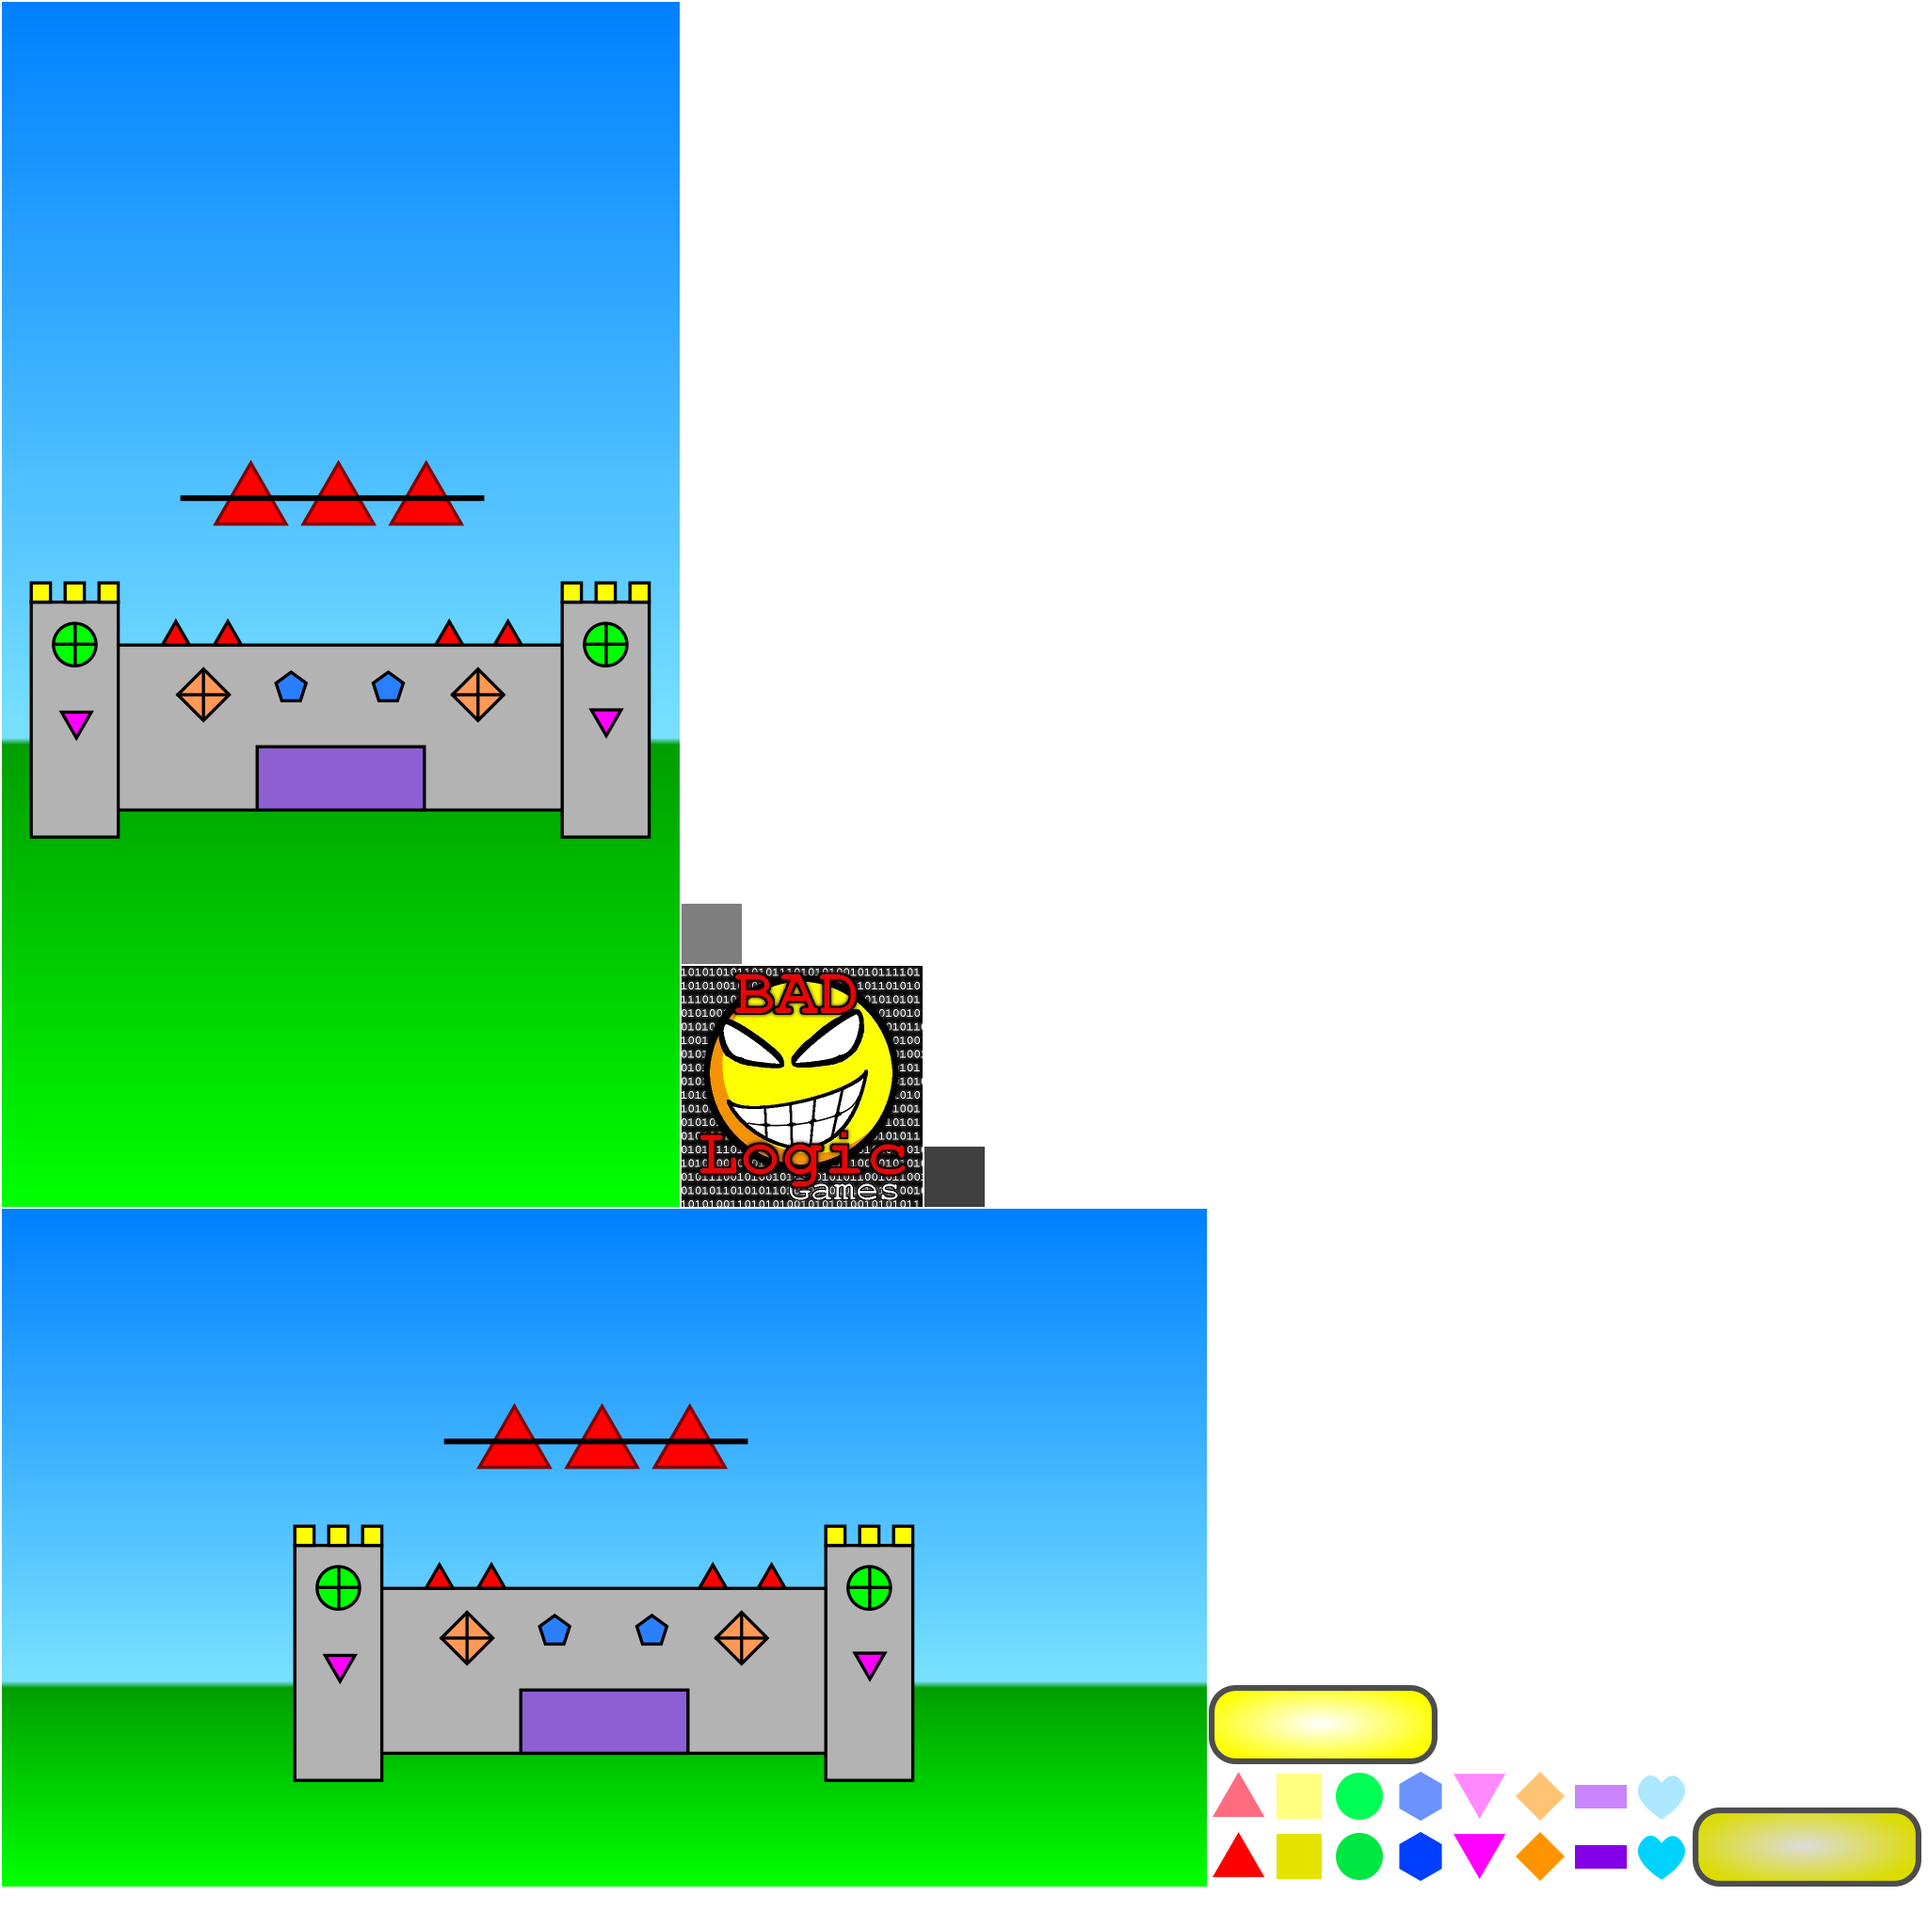
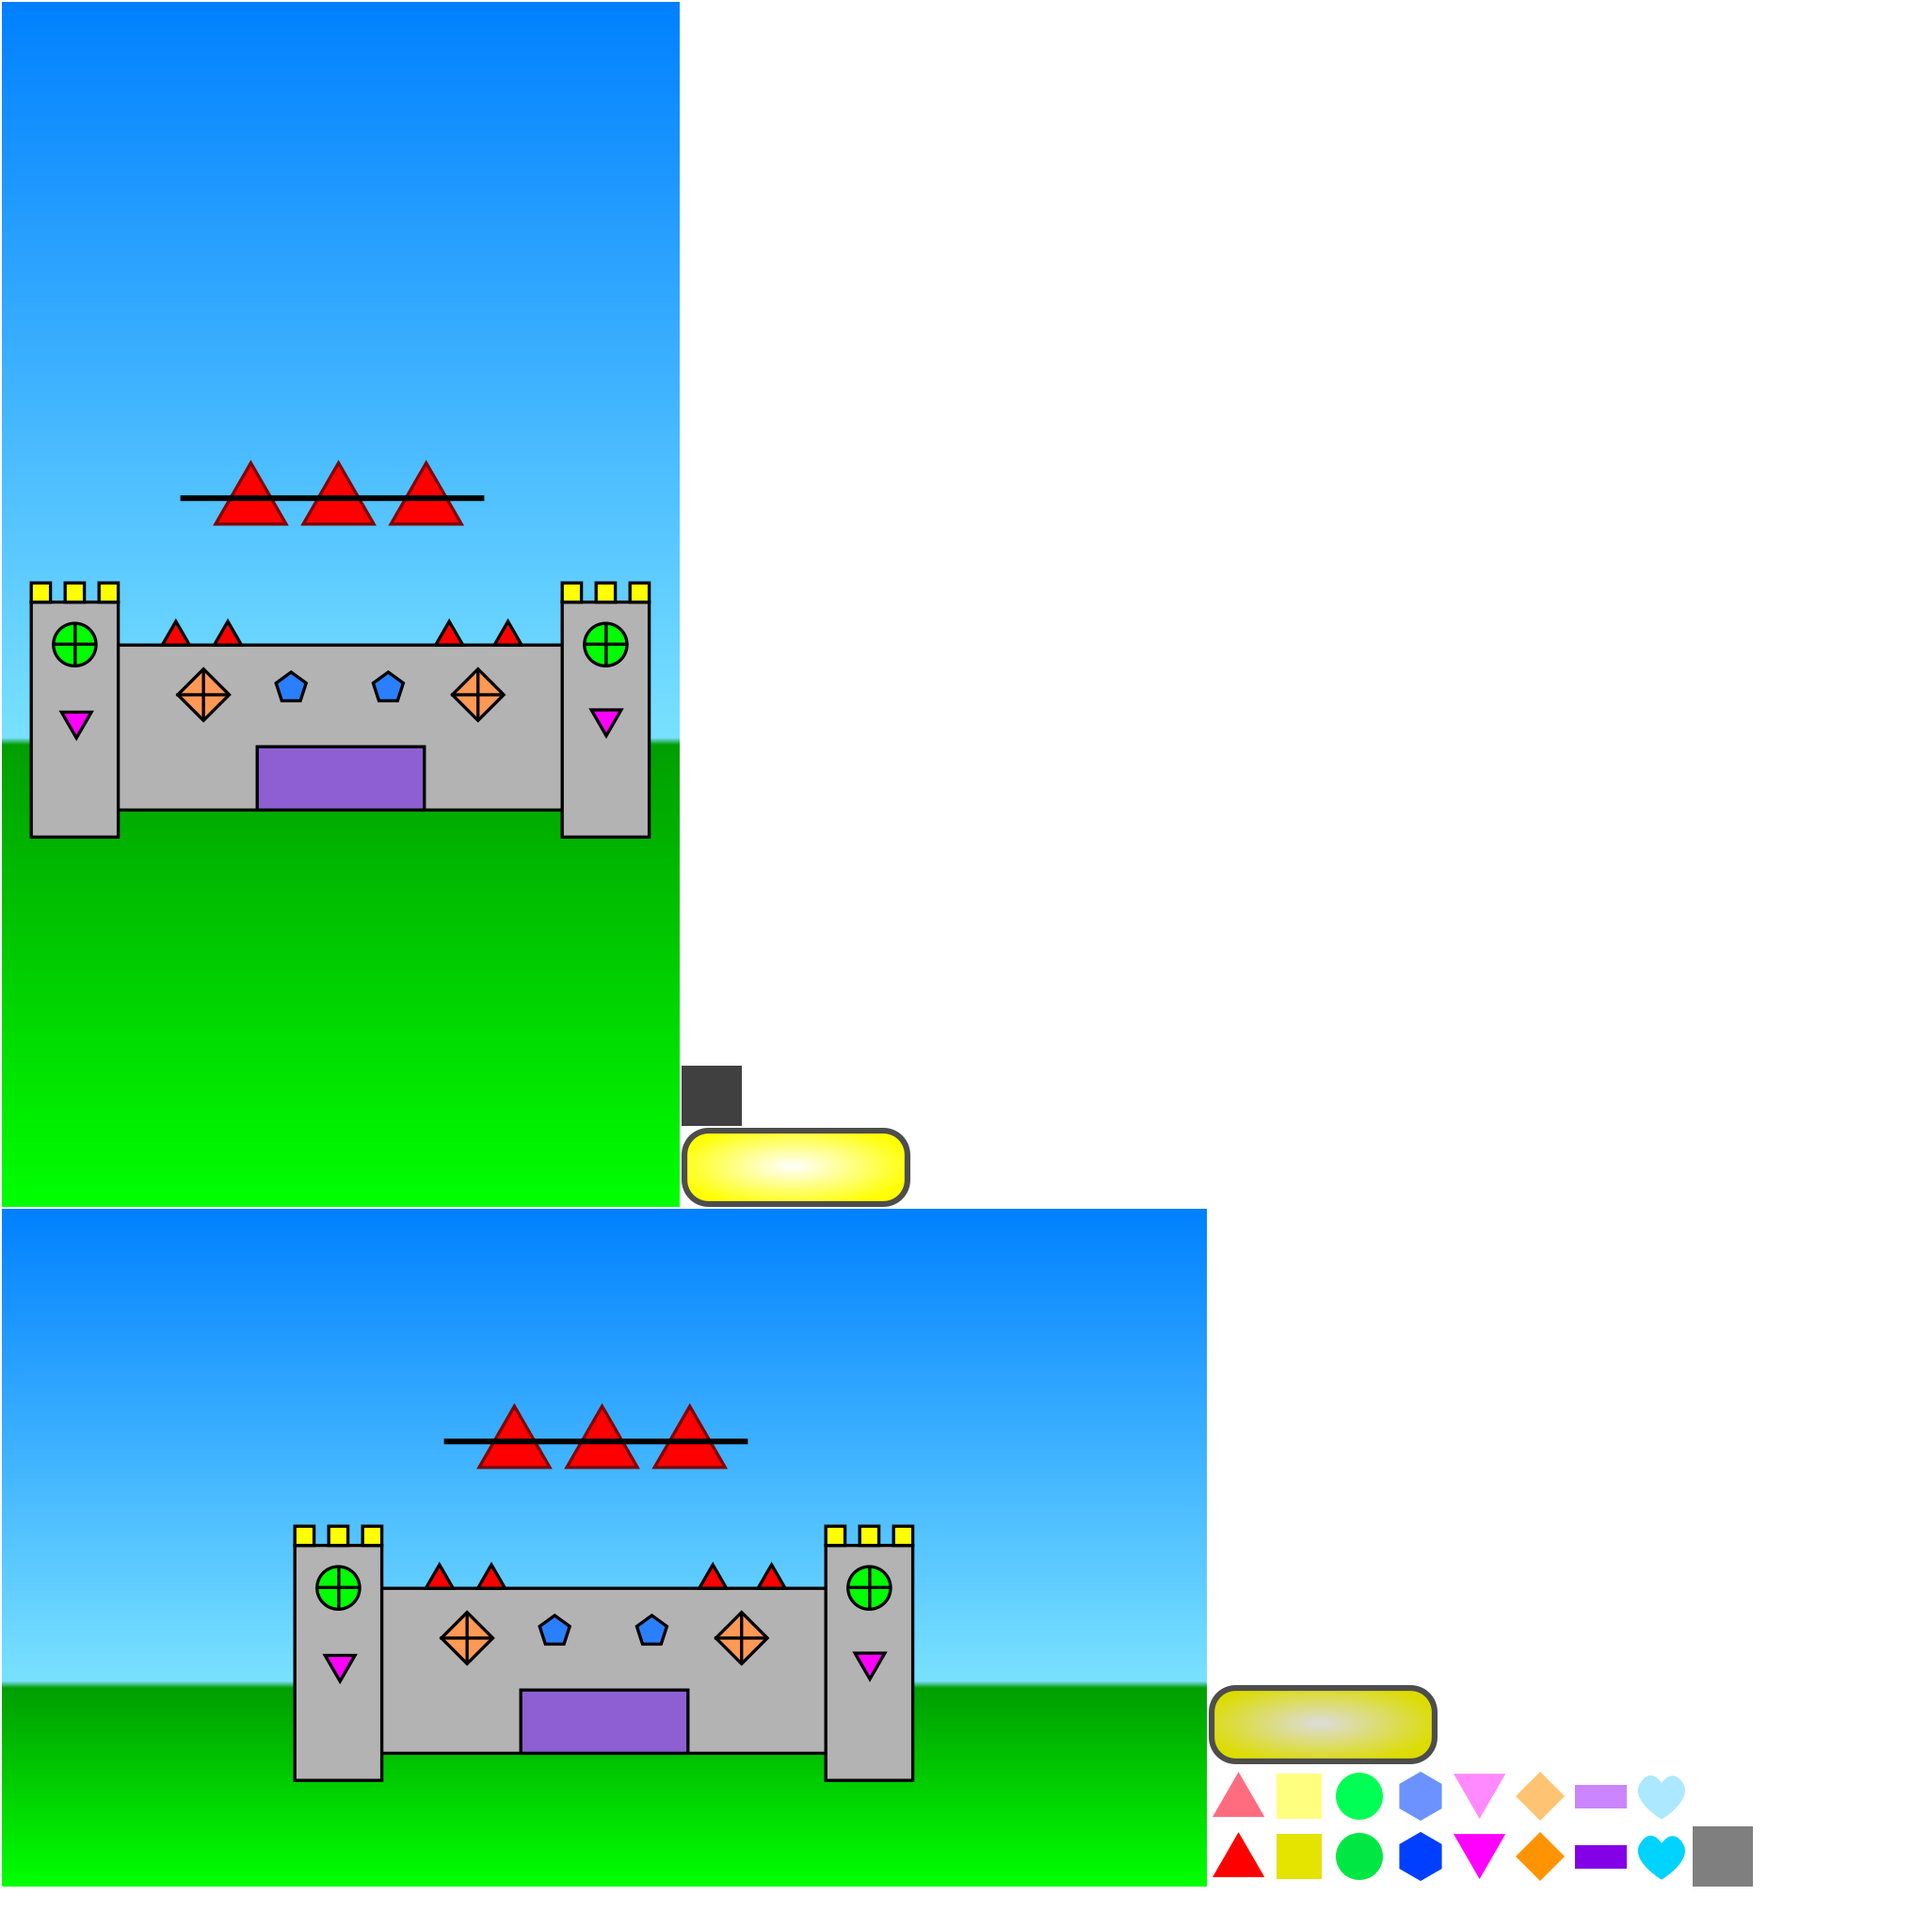
Remove test moving image

Changed region(s): [[0.3438, 0.4688, 0.5312, 0.625], [0.875, 0.9375, 1.0, 1.0], [0.625, 0.875, 0.75, 0.9375]]

diff --git a/core/src/com/createeternal/shapeclear/screens/MainMenu.java b/core/src/com/createeternal/shapeclear/screens/MainMenu.java
@@ -5,9 +5,6 @@ import com.badlogic.gdx.Screen;
 import com.badlogic.gdx.graphics.Color;
 import com.badlogic.gdx.graphics.GL20;
 import com.badlogic.gdx.graphics.g2d.GlyphLayout;
-import com.badlogic.gdx.graphics.g2d.Sprite;
-import com.badlogic.gdx.graphics.glutils.ShapeRenderer;
-import com.badlogic.gdx.graphics.glutils.ShapeRenderer.ShapeType;
 import com.badlogic.gdx.graphics.g2d.Batch;
 import com.badlogic.gdx.math.Vector2;
 import com.badlogic.gdx.scenes.scene2d.InputEvent;
@@ -20,11 +17,8 @@ public class MainMenu implements Screen {
 	private Stage stage;
 	private ButtonActor startButton, helpButton
 		, creditsButton;
-	private ShapeRenderer shapes;
 	private String message;
 	private boolean receivedMessage;
-	private Sprite strange;
-	private float angle=0.0f;
 	
 	public MainMenu(final ShapeClearGame game)
 	{
@@ -55,9 +49,6 @@ public class MainMenu implements Screen {
 		creditsButton.text=Localize.get("credits");
 		
 		message=Localize.get("shapeClear");
-		strange=new Sprite(AssetLoader.bad_tex);
-		strange.setOrigin(0, 0);
-		shapes=new ShapeRenderer();
 	}
 	
 	@Override
@@ -82,40 +73,6 @@ public class MainMenu implements Screen {
 		Gdx.gl.glClearDepthf(1f);
 		Gdx.gl.glClear(GL20.GL_DEPTH_BUFFER_BIT | GL20.GL_COLOR_BUFFER_BIT);
 		
-		// move bad logic
-		float speed=300*scale*delta;
-		strange.translate(speed*(float)Math.sin(angle), speed*(float)Math.cos(angle));
-		angle+=(Math.random()-0.5)*18*delta;
-		if(strange.getX()>Gdx.graphics.getWidth()-strange.getWidth()*scale)
-		{
-			strange.setX(Gdx.graphics.getWidth()-strange.getWidth()*scale);
-			angle= -angle;
-		}
-		if(strange.getX()<0)
-		{
-			strange.setX(0);
-			angle= -angle;
-		}
-		if(strange.getY()>Gdx.graphics.getHeight()-strange.getHeight()*scale)
-		{
-			strange.setY(Gdx.graphics.getHeight()-strange.getHeight()*scale);
-			angle=(float) (Math.PI-angle);
-		}
-		if(strange.getY()<0)
-		{
-			strange.setY(0);
-			angle=(float) (Math.PI-angle);
-		}
-		
-		shapes.setProjectionMatrix(stage.getCamera().combined);
-		shapes.begin(ShapeType.Filled);
-
-		shapes.setColor(1f, 0f, 0f, 0.5f);
-		shapes.circle(50*scale, 50*scale, 50*scale);
-		shapes.setColor(0f, 1f, 0f, 0.5f);
-		shapes.rect(strange.getX(),strange.getY(),strange.getWidth()*strange.getScaleX(),strange.getHeight()*strange.getScaleY());
-		
-		shapes.end();
 		Gdx.gl.glDisable(GL20.GL_DEPTH_TEST);
 		
 		stage.act(delta);
@@ -142,7 +99,6 @@ public class MainMenu implements Screen {
 		drawTextCentered(batch,message,0.5f,height);
 
 		AssetLoader.font.getData().setScale(scale*0.5f);
-		strange.draw(batch);
 
 		batch.end();
 	}
@@ -164,7 +120,6 @@ public class MainMenu implements Screen {
 			.moveActor(helpButton, 0.5f, 0.35f)
 			.moveActor(creditsButton, 0.5f, 0.2f);
 		}
-		strange.setScale(game.background.getScale());
 	}
 
 	private Vector2 getScaledPos(float x,float y)
@@ -213,6 +168,5 @@ public class MainMenu implements Screen {
 	@Override
 	public void dispose() {
 		Gdx.app.log("MainMenu", "dispose()");
-		shapes.dispose();
 	}
 }

diff --git a/desktop/src/com/createeternal/shapeclear/desktop/DesktopLauncher.java b/desktop/src/com/createeternal/shapeclear/desktop/DesktopLauncher.java
@@ -9,7 +9,7 @@ import com.createeternal.shapeclear.ShapeClearGame;
 
 public class DesktopLauncher {
 	public static void main (String[] arg) {
-		final boolean needToPackTexture=false;
+		final boolean needToPackTexture=true;
 		if(needToPackTexture)
 		{
 			// for high resolution (1280x720)
@@ -19,12 +19,15 @@ public class DesktopLauncher {
 			settings.filterMin=TextureFilter.MipMapLinearLinear;
 			settings.filterMag=TextureFilter.Linear;
 			settings.fast=true;
-			TexturePacker.process(settings, "../../images", ".", "game");
+			settings.scale=new float[]{1,0.5f};
+			settings.scaleSuffix=new String[]{"e","e_small"};
+			TexturePacker.process(settings, "../../images", ".", "gam");
 			
 			// for lower resolution
 			settings.maxHeight=1024;
 			settings.maxWidth=1024;
-			TexturePacker.process(settings, "../../images_small", ".", "game_small");
+			
+			//TexturePacker.process(settings, "../../images_small", ".", "game_small");
 		}
 		LwjglApplicationConfiguration config = new LwjglApplicationConfiguration();
 		config.width=482;

diff --git a/core/src/com/createeternal/shapeclear/AssetLoader.java b/core/src/com/createeternal/shapeclear/AssetLoader.java
@@ -19,7 +19,7 @@ public class AssetLoader {
 	//private static Texture ;
 	public static TextureAtlas texture;
 	public static TextureRegion bg_portrait, bg_landscape,
-		gameStart, gameStartPressed, bad_tex, shape[][], shapeTexture, board[];
+		gameStart, gameStartPressed, shape[][], shapeTexture, board[];
 	public static int gridSize;
 	private static FreeTypeFontGenerator fontGenerator;
 	private static FreeTypeFontParameter fontParam;
@@ -68,7 +68,6 @@ public class AssetLoader {
 		font = fontGenerator.generateFont(fontParam);
 		font.getRegion().getTexture().setFilter(TextureFilter.Linear, TextureFilter.Linear);
 		
-		bad_tex=texture.findRegion("badlogic");
 		bg_portrait=texture.findRegion("background_portrait");
 		bg_landscape=texture.findRegion("background_landscape");
 		gameStart=texture.findRegion("gameStart");
